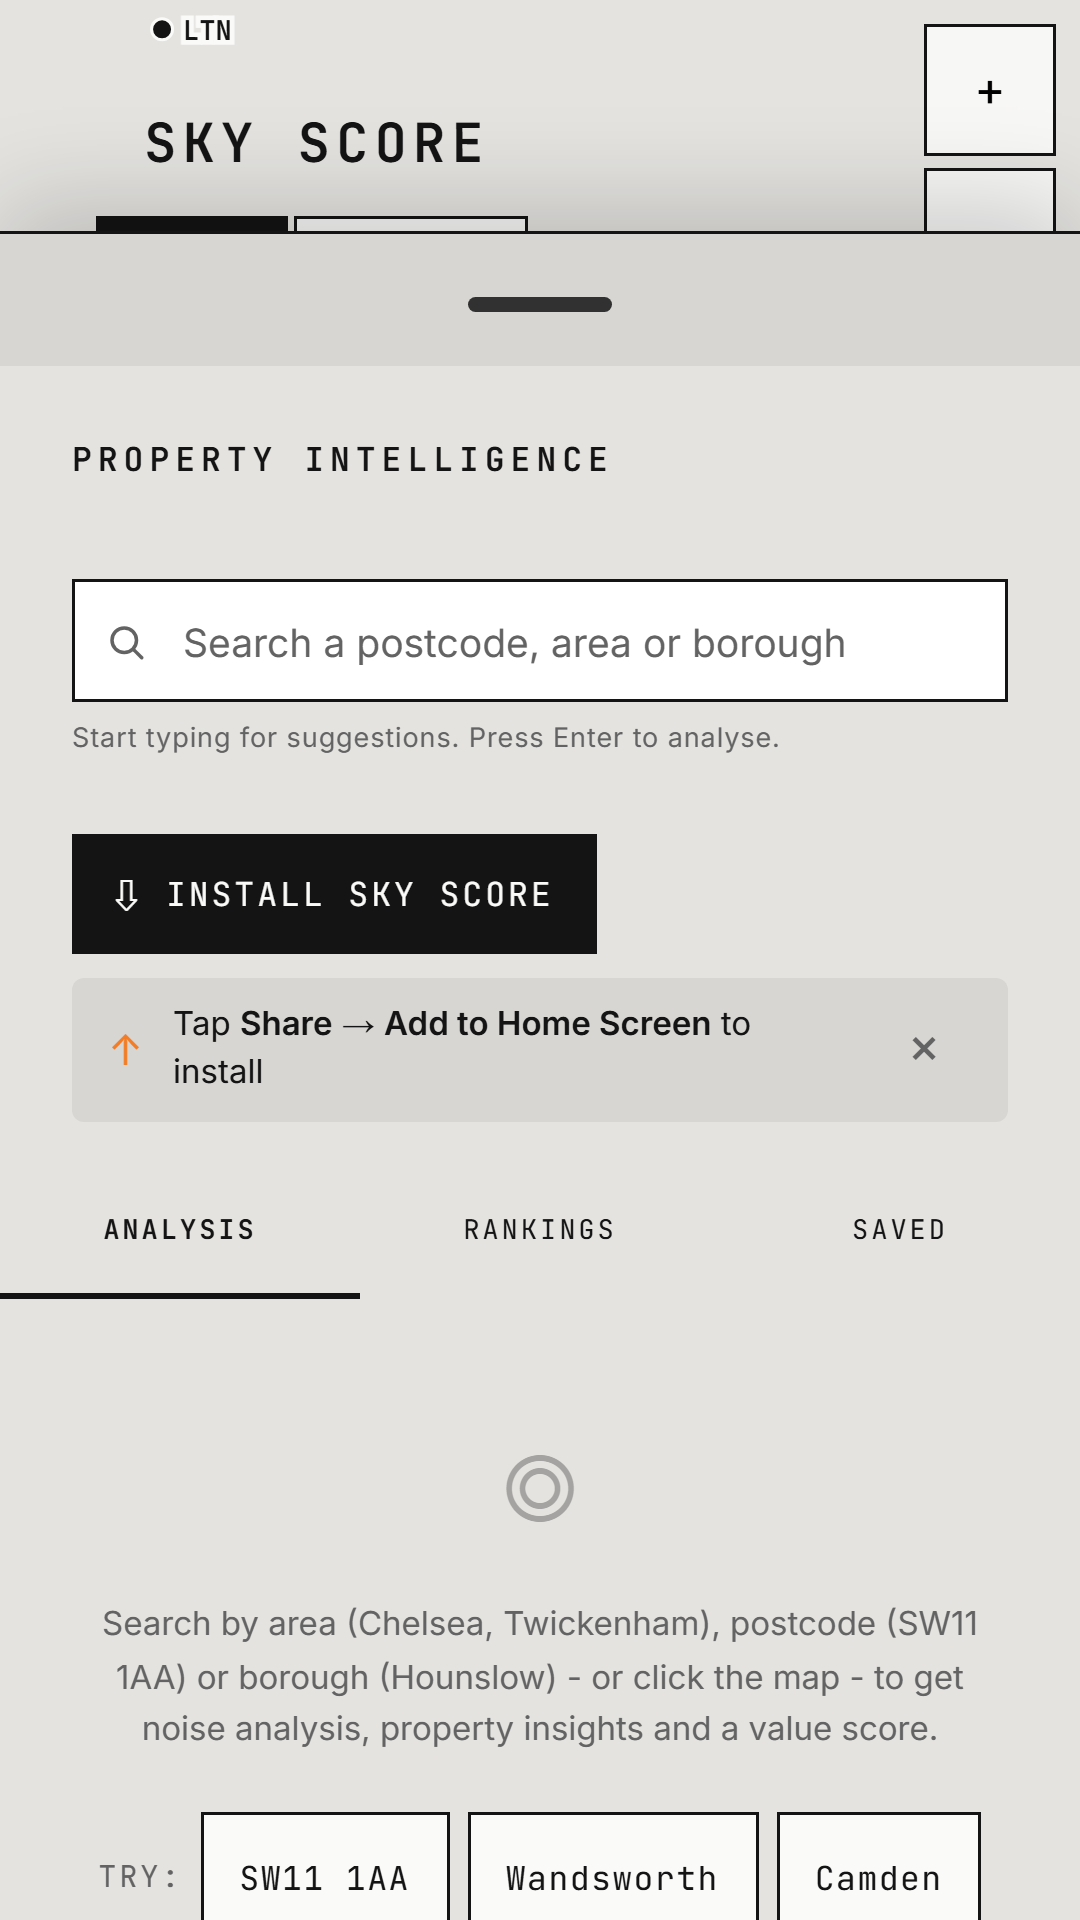
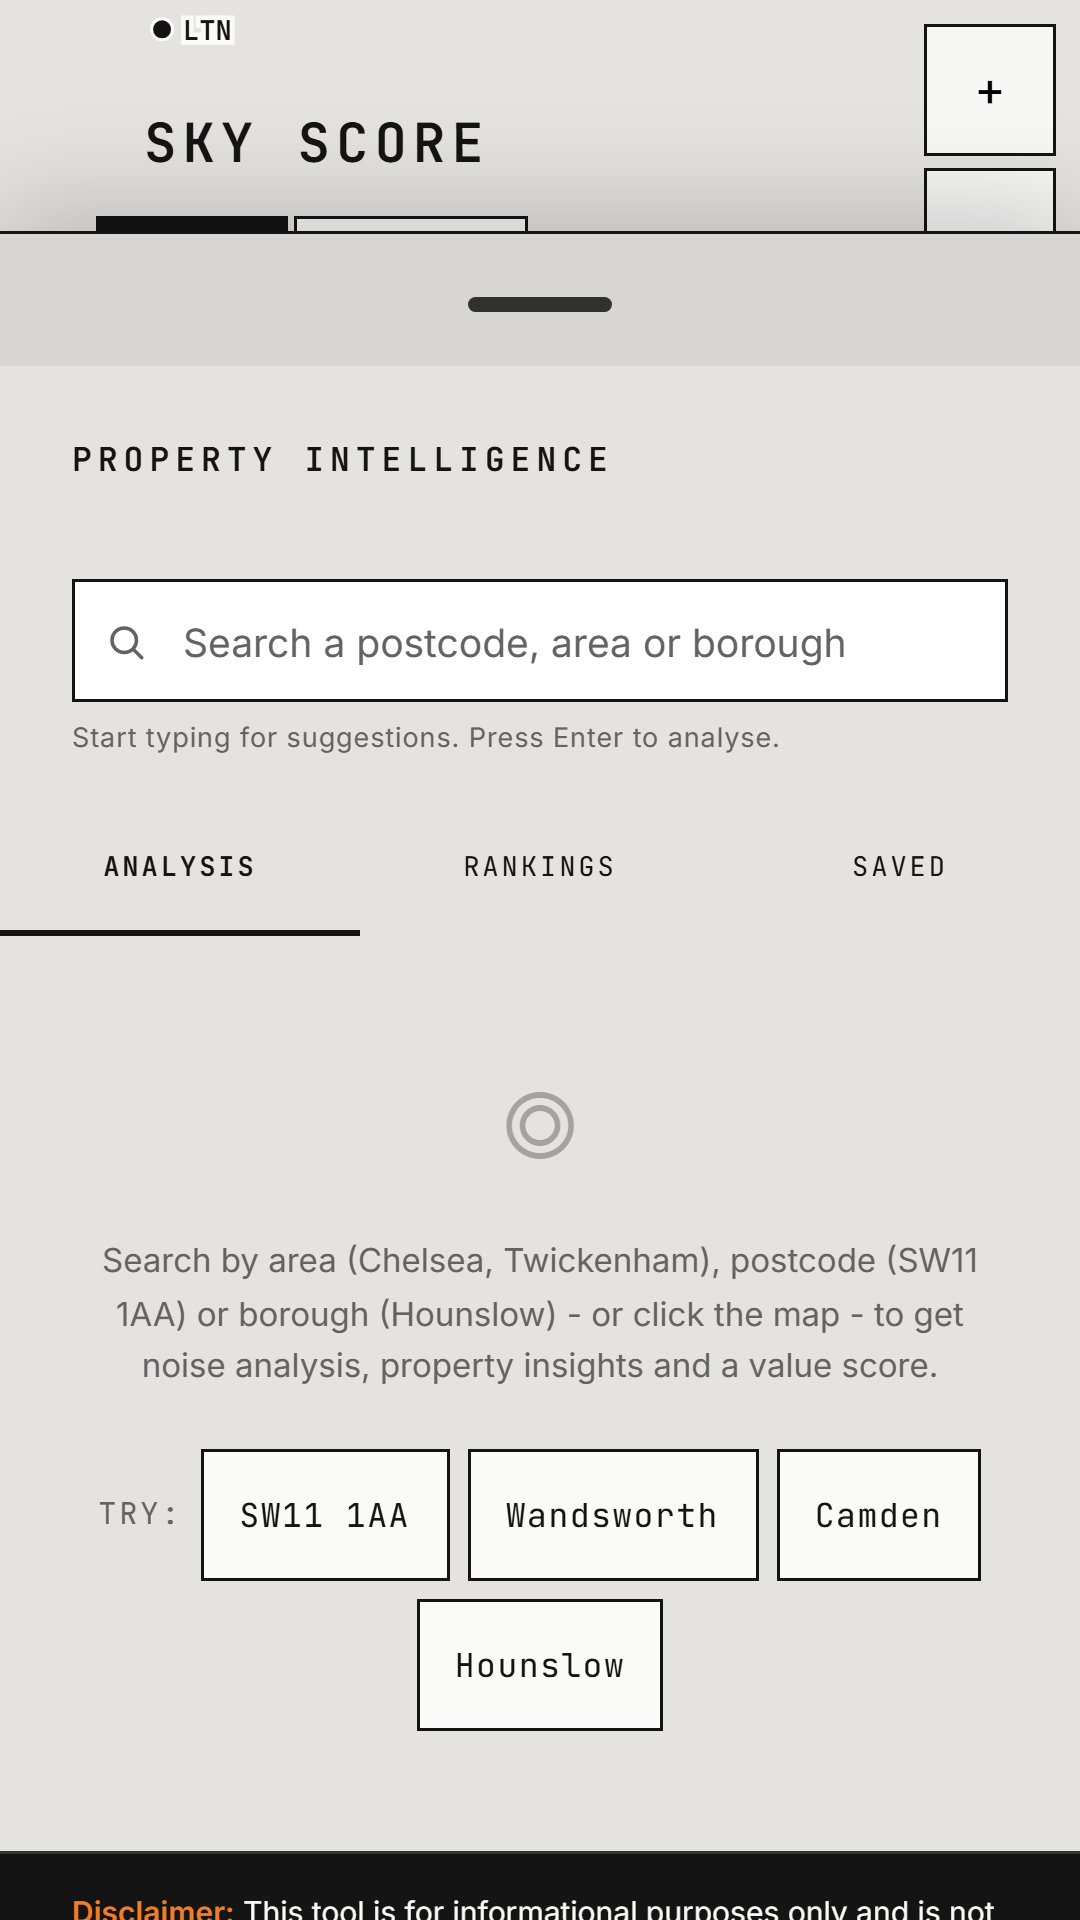
Wave 13.19.1: Android echo + screenshot install-prompt hide
Doc echoes for Wave 13.19 (Android pipeline established):
- ROADMAP.md Last reviewed extended to cover both iOS submission +
  Android AAB-ready state, with cross-app dividend note.
- README.md Google Play row flipped from "TBD" to "AAB built +
  screenshots + feature graphic ready 2026-05-16 -- pending Play
  Console upload".
- mobile/ANDROID_BUILD.md gets a "Current state (Wave 13.19)"
  header pointing at the live keystore + AAB + screenshots, so
  future-Bill picking the doc up doesn't waste time re-doing the
  one-off setup.

Screenshots regenerated with PWA install prompts hidden:
- The previous round of Android screenshots showed "INSTALL SKY
  SCORE" + "Tap Share -> Add to Home Screen" banners that the
  live web site renders for PWA visitors but the native app hides
  via navigator.standalone checks in Capacitor's WebView.
- A Play reviewer seeing those would reasonably ask "why does an
  Android app tell me to add it to home screen". Bad signal.
- tests/android-screenshots.mjs now injects a one-shot stylesheet
  early in page load that force-hides #install-prompt and
  #ios-install-hint via display: none !important. The CSS is
  added before DOMContentLoaded so runtime JS that reveals these
  banners can't beat it.

Defensive parity for iOS:
- tests/screenshots.mjs gets the same install-prompt hide block,
  defensively for v1.1+ iOS re-screenshots. The v1.0 iOS shots
  were uploaded directly via TestFlight (not this script) so the
[…]

diff --git a/ROADMAP.md b/ROADMAP.md
@@ -2,7 +2,11 @@
 
 > **Living document.** Updated as Sky Score evolves. For the focused buildathon plan see `BUILDATHON_PLAN.md`. For Claude session instructions see `CLAUDE.md`. This roadmap is the *what next* across all tracks.
 
-**Last reviewed:** 2026-05-16 EOD (Wave 13.18.1 — **v1.0.1 submitted to Apple, awaiting verdict**. Build 19 is the first successful build under the persisted-cert pipeline: orange radar icon visible in ASC, attached to v1.0.1, submitted for review. Cert situation permanently resolved: one Distribution cert created from the persisted `$CERT_PRIVATE_KEY` (PEM, public-key SHA256 `c680ad18...805934`), every future build reuses it instead of orphaning a new cert. The arc from 13.16 → 13.18.1 took three failed builds to land: 13.17 attempted base64-in-env-var (corrupted in clip.exe→textarea transit), 13.18 switched to raw PEM (dashboard Edit on a Secure var didn't persist the value due to a Codemagic UI quirk), 13.18.1 added a length-diagnostic and the user delete-and-recreated the env var. Eight distinct failure modes resolved across the icon-ship arc; full forensic trail in `HANDOFF_2026_05_14_icon_ship.md` and `memory/feedback_codemagic_personal_account_signing.md`. Apple review window 24–72h; in-flight at submission.)
+**Last reviewed:** 2026-05-16 EOD (Wave 13.19 — **iOS v1.0.1 submitted to Apple + Android pipeline established in same session**.
+
+iOS side: Build 19 is the first successful build under the persisted-cert pipeline (orange radar icon, signed by persistent Distribution cert public-key SHA256 `c680ad18...805934`). Attached to v1.0.1 in ASC, submitted for review. The arc from 13.16 → 13.18.1 took three failed builds: 13.17 base64-in-env-var (corrupted in clip.exe→textarea transit), 13.18 raw PEM (dashboard Edit on a Secure var didn't persist the value due to a Codemagic UI quirk), 13.18.1 added length-diagnostic + delete-and-recreate. Eight distinct failure modes resolved.
+
+Android side: keystore generated at `~/.keystores/sky-score-release.jks` (upload-key SHA-256 `A5:53:4A:8F...:22:50:AB`), `mobile/android/app/build.gradle` wired for env-var-driven signing (force-tracked because `/android/` is gitignored), gradle bundleRelease produced a signed 3.6 MB AAB at `mobile/android/app/build/outputs/bundle/release/app-release.aab`. Three Play Store screenshots auto-generated at 1080×1920 via Playwright + Chromium (`tests/android-screenshots.mjs` hides PWA install prompts to match the native app's runtime view), feature graphic 1024×500 auto-rendered (`tests/android-feature-graphic.mjs`). Fastlane metadata at `mobile/fastlane/metadata/android/en-GB/` pre-populated. AAB is ready for manual Play Console upload (Internal track → Production); Play review typically <24h. Forensic trail in `memory/feedback_codemagic_personal_account_signing.md` (iOS), `memory/project_android_keystore.md` (Android keystore facts), `HANDOFF_2026_05_14_icon_ship.md` (icon arc).)
 
 ---
 

diff --git a/mobile/ANDROID_BUILD.md b/mobile/ANDROID_BUILD.md
@@ -1,5 +1,7 @@
 # Android build (local, via Android Studio)
 
+> **Current state (Wave 13.19, 2026-05-16):** keystore generated at `~/.keystores/sky-score-release.jks` (alias `sky-score`, upload-key SHA-256 `A5:53:4A:8F:91:54:37:D6:2E:6C:72:D7:AE:F6:1B:66:B3:4D:1D:84:E1:13:8C:1A:51:8C:6C:B6:52:22:50:AB`). `mobile/android/app/build.gradle` has env-var-driven `signingConfigs.release` wired in. First signed AAB built and verified (`mobile/android/app/build/outputs/bundle/release/app-release.aab`, 3.6 MB). Screenshots + feature graphic auto-rendered via `tests/android-screenshots.mjs` and `tests/android-feature-graphic.mjs`. **Pending: Play Console upload (manual, Internal → Production).** See `ROADMAP.md` for the post-Apple Play next steps. Keystore password lives in Bill's password manager; the `~/.keystores/sky-score-credentials.txt` plaintext file was deleted post-retrieval.
+
 Sky Score's Android binary is built **locally on your Windows machine**, not via Codemagic. The pattern is the same one used for Noor: open the Capacitor-generated `mobile/android/` project in Android Studio, generate a signed AAB through the IDE wizard, upload the AAB to Play Console manually.
 
 iOS is the exception that needs cloud CI (Codemagic) because there's no local Mac. Android doesn't need it — gradle runs fine on Windows and the local feedback loop is faster than waiting for a cloud build.

diff --git a/README.md b/README.md
@@ -45,7 +45,7 @@ Sky Score runs as a website, an installable PWA, and a native iOS / Android app 
 | Desktop / Android Chrome | Click the install icon in the address bar, or "Install Sky Score" button inside the app |
 | iOS Safari (16+) | Tap **Share → Add to Home Screen** |
 | iOS App Store | v1.0.1 submitted 2026-05-16 — awaiting Apple review (24–72h) |
-| Google Play Store | TBD (in submission) |
+| Google Play Store | AAB built + screenshots + feature graphic ready 2026-05-16 — pending Play Console upload |
 
 The native iOS and Android apps add a "Score where I am" button that uses your phone's GPS for instant scoring of your current location. See [`mobile/`](./mobile/) for the Capacitor + Codemagic build setup.
 
